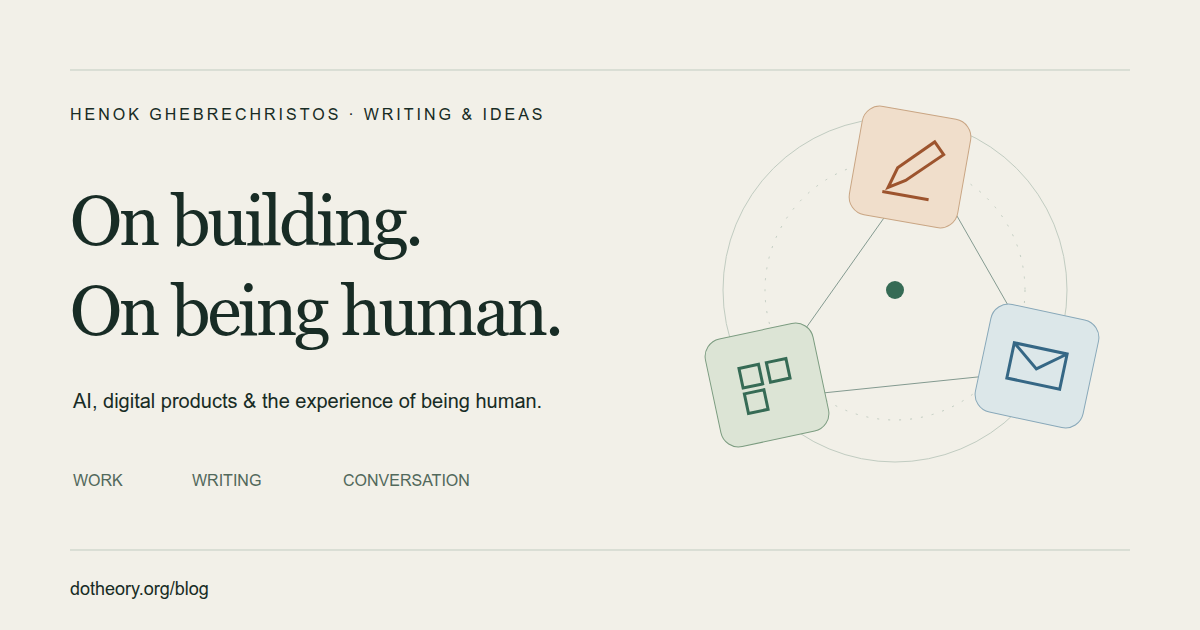
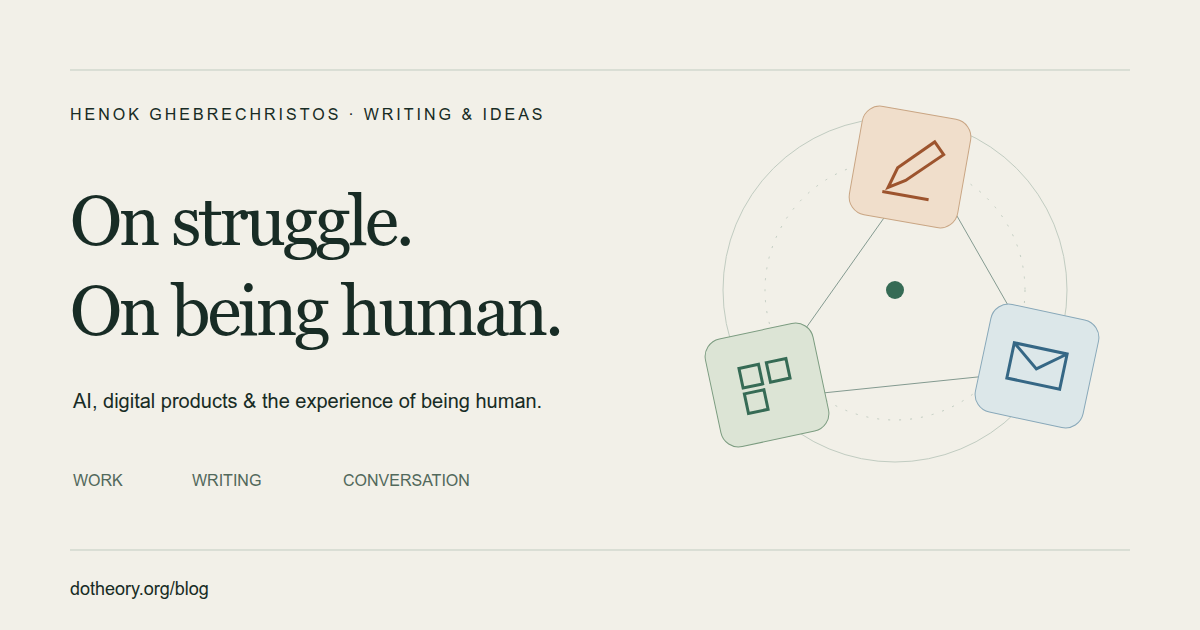
Refine homepage invitation and enable local contact intake
Keep "Challenge any model that leaves your experience out." as the only hero
subtitle, rename the writing heading to "On struggle.", and replace the book
button underline with three dots that progress on hover or keyboard focus.
Update the generated public HTML, writing share image, and copy regressions.

Allow an explicitly configured development preview to submit public inquiries
to the deployed contact inbox and its email notices. Leave private Studio and
authentication on their normal backend, strip credentials at the proxy, and
disable the override in production builds. Document the boundary in ADR-0048.

Serves L1/L2 (clear, finite invitations), L7 (truthful receipts and explicit
configuration), L9 (limited credential/data scope), L10 (a simpler invitation
and focused reading action), and L12 (inquiries reach the intended owner). Violates no law.

Validation: make verify; mobile browser review; exact generated-copy parity;
three-step motion and reduced-motion checks; live/local contact availability
and server rejection of invalid input; one founder-approved live inquiry
returned HTTP 201 and a persisted receipt. Email receipt awaits owner confirmation.

Changed region(s): [[0.1233, 0.3016, 0.37, 0.4222]]

diff --git a/frontend/scripts/contact-preview.test.ts b/frontend/scripts/contact-preview.test.ts
@@ -1,0 +1,55 @@
+import { EventEmitter } from "node:events";
+import { describe, expect, it, vi } from "vitest";
+
+// Config generation is independent of Vite's filesystem environment loader.
+vi.mock("vite", () => ({ loadEnv: vi.fn() }));
+// @ts-expect-error -- plain ESM shared with Vite's configuration.
+import { contactPreviewConfig } from "./contact-preview.mjs";
+
+const target = "https://contact.example";
+
+describe("explicit live contact preview", () => {
+  it("stays off by default and cannot be enabled in production builds", () => {
+    for (const config of [contactPreviewConfig("serve"), contactPreviewConfig("build", target)]) {
+      expect(config.server).toBeUndefined();
+      expect(config.define["import.meta.env.VITE_CONTACT_PREVIEW"]).toBe('"false"');
+    }
+  });
+
+  it("accepts only an HTTPS origin with no credentials or extra destination", () => {
+    for (const invalid of ["http://contact.example", "https://user:password@contact.example", `${target}/private`, `${target}?token=test`, `${target}#private`]) {
+      expect(() => contactPreviewConfig("serve", invalid)).toThrow();
+    }
+  });
+
+  it("routes only public status and submission, never private inbox or auth", () => {
+    const config = contactPreviewConfig("serve", target);
+    const rule = Object.keys(config.server.proxy)[0];
+    const proxy = config.server.proxy[rule];
+    const match = new RegExp(rule);
+    for (const path of ["status", "messages"]) {
+      expect(match.test(`/__dot-contact/v1/contact/${path}`)).toBe(true);
+      expect(proxy.rewrite(`/__dot-contact/v1/contact/${path}`)).toBe(`/v1/contact/${path}`);
+    }
+    for (const path of ["/__dot-contact/v1/contact/inbox", "/__dot-contact/v1/auth/session", "/__dot-contact/v1/contact/messages/../inbox", "/__dot-contact/v1/contact/messages%2finbox"]) {
+      expect(match.test(path)).toBe(false);
+    }
+    expect(proxy.target).toBe(target);
+  });
+
+  it("strips session credentials while preserving the submission reference", () => {
+    const config = contactPreviewConfig("serve", target);
+    const proxy = config.server.proxy[Object.keys(config.server.proxy)[0]];
+    const events = new EventEmitter();
+    proxy.configure(events);
+    const headers = new Map([
+      ["cookie", "local-session=test"], ["authorization", "Bearer local-token"],
+      ["idempotency-key", "test-submission-reference"], ["content-type", "application/json"],
+    ]);
+    events.emit("proxyReq", { removeHeader: (name: string) => headers.delete(name) });
+    expect([...headers.keys()]).toEqual(["idempotency-key", "content-type"]);
+    const response = { headers: { "set-cookie": "unexpected-cookie", "content-type": "application/json" } };
+    events.emit("proxyRes", response);
+    expect(response.headers).toEqual({ "content-type": "application/json" });
+  });
+});

diff --git a/frontend/src/blocks/core/home/home.css b/frontend/src/blocks/core/home/home.css
@@ -395,8 +395,8 @@ html:has(.home-journey) {
   white-space: normal;
 }
 
-/* The primary invitation reads like a chapter opener: the shared paper button,
-   with a line of ink that draws under it when it is chosen. */
+/* The primary invitation uses the shared paper button, with three dots that
+   appear from left to right when the reader hovers or focuses it. */
 .home-hero-entry .dot-focus-nav__primary.dot-button {
   min-height: 3.5rem;
   gap: 0.75rem;
@@ -430,13 +430,8 @@ html:has(.home-journey) {
 }
 
 .home-hero-entry .dot-button__copy strong {
+  position: relative;
   padding-bottom: 0.3rem;
-  background: linear-gradient(
-      90deg,
-      var(--organism-accent-strong),
-      color-mix(in oklab, var(--organism-accent-strong) 35%, transparent)
-    )
-    no-repeat 0 100% / 0 1.5px;
   font-size: 1.125rem;
   letter-spacing: -0.02em;
   line-height: 1.2;
@@ -444,12 +439,25 @@ html:has(.home-journey) {
   text-wrap: balance;
 }
 
+.home-hero-entry .dot-button__copy strong::after {
+  position: absolute;
+  bottom: 0;
+  left: 0;
+  width: 30px;
+  height: 4px;
+  background: radial-gradient(circle, currentColor 1.75px, transparent 2px)
+    0 0 / 10px 4px repeat-x;
+  clip-path: inset(0 100% 0 0);
+  content: "";
+  pointer-events: none;
+}
+
 .home-hero-entry .dot-button__end-icon {
   box-shadow: inset 0 0 0 1px color-mix(in oklab, var(--foreground) 16%, transparent);
 }
 
-.home-hero-entry .dot-focus-nav__primary:focus-visible .dot-button__copy strong {
-  background-size: 100% 1.5px;
+.home-hero-entry .dot-focus-nav__primary:focus-visible .dot-button__copy strong::after {
+  clip-path: inset(0);
 }
 
 .home-hero-entry .dot-focus-nav__primary:not(:disabled):focus-visible .dot-button__end-icon {
@@ -459,8 +467,8 @@ html:has(.home-journey) {
 }
 
 @media (hover: hover) {
-  .home-hero-entry .dot-focus-nav__primary:hover .dot-button__copy strong {
-    background-size: 100% 1.5px;
+  .home-hero-entry .dot-focus-nav__primary:hover .dot-button__copy strong::after {
+    clip-path: inset(0);
   }
 
   .home-hero-entry .dot-focus-nav__primary:not(:disabled):hover .dot-button__end-icon {
@@ -471,8 +479,8 @@ html:has(.home-journey) {
 }
 
 @media (prefers-reduced-motion: no-preference) {
-  html:not([data-motion="still"]) .home-hero-entry .dot-button__copy strong {
-    transition: background-size 560ms cubic-bezier(0.22, 1, 0.36, 1);
+  html:not([data-motion="still"]) .home-hero-entry .dot-button__copy strong::after {
+    transition: clip-path 480ms steps(3, end);
   }
 
   html:not([data-motion="still"]) .home-hero-entry .dot-button__end-icon {

diff --git a/frontend/src/services/OrchestratorContactService.test.ts b/frontend/src/services/OrchestratorContactService.test.ts
@@ -1,0 +1,40 @@
+import { afterEach, describe, expect, it, vi } from "vitest";
+
+const { authedFetch } = vi.hoisted(() => ({ authedFetch: vi.fn() }));
+vi.mock("./orchestratorHttp", () => ({ authedFetch }));
+
+afterEach(() => {
+  vi.unstubAllEnvs();
+  vi.unstubAllGlobals();
+  vi.resetAllMocks();
+  vi.resetModules();
+});
+
+async function setup(preview: boolean, development: boolean) {
+  vi.resetModules();
+  vi.stubEnv("DEV", development);
+  vi.stubEnv("VITE_CONTACT_PREVIEW", String(preview));
+  vi.stubEnv("VITE_ORCHESTRATOR_URL", "https://normal-api.example");
+  const fetch = vi.fn().mockImplementation(() => Promise.resolve(new Response(JSON.stringify({ available: true, status: "received", reference: "inq_test" }))));
+  vi.stubGlobal("fetch", fetch);
+  return { service: await import("./OrchestratorContactService"), fetch };
+}
+
+describe("contact intake destination", () => {
+  it("uses opted-in preview intake without credentials and leaves the private inbox on its normal API", async () => {
+    const { service, fetch } = await setup(true, true);
+    await service.fetchContactStatus();
+    await service.sendContactMessage({ purpose: "general", name: "Visitor", email: "visitor@example.org", message: "An example inquiry.", organization: "", timeline: "", budget: "", consent: true, website: "" }, "test-submission-reference");
+    expect(fetch).toHaveBeenNthCalledWith(1, "/__dot-contact/v1/contact/status", expect.objectContaining({ credentials: "omit" }));
+    expect(fetch).toHaveBeenNthCalledWith(2, "/__dot-contact/v1/contact/messages", expect.objectContaining({ credentials: "omit", method: "POST", headers: expect.objectContaining({ "Idempotency-Key": "test-submission-reference" }) }));
+    authedFetch.mockResolvedValue(new Response(JSON.stringify({ messages: [], has_more: false, page: 1 })));
+    await service.fetchContactInbox(1, "");
+    expect(authedFetch).toHaveBeenCalledWith("https://normal-api.example/v1/contact/inbox?page=1", expect.objectContaining({ sessionOnly: true }));
+  });
+
+  it.each([[false, true], [true, false]])("uses the normal API with preview=%s and development=%s", async (preview, development) => {
+    const { service, fetch } = await setup(preview, development);
+    await service.fetchContactStatus();
+    expect(fetch).toHaveBeenCalledWith("https://normal-api.example/v1/contact/status", expect.objectContaining({ credentials: "omit" }));
+  });
+});

diff --git a/frontend/src/services/OrchestratorContactService.ts b/frontend/src/services/OrchestratorContactService.ts
@@ -23,6 +23,9 @@ export interface ContactReply { id: string; status: string; created_at: string; 
 export interface ContactConversation extends ContactMessage { replies: ContactReply[] }
 
 const base = `${ORCHESTRATOR_URL.replace(/\/$/, "")}/v1/contact`;
+const publicBase = import.meta.env.DEV && import.meta.env.VITE_CONTACT_PREVIEW === "true"
+  ? "/__dot-contact/v1/contact"
+  : base;
 
 async function read<T>(response: Response): Promise<T> {
   if (!response.ok) {
@@ -35,9 +38,9 @@ async function read<T>(response: Response): Promise<T> {
   return response.json() as Promise<T>;
 }
 
-export const fetchContactStatus = (signal?: AbortSignal) => fetch(`${base}/status`, { signal, cache: "no-store" }).then(read<{ available: boolean }>);
-export const sendContactMessage = (draft: ContactDraft, key: string) => fetch(`${base}/messages`, {
-  method: "POST", headers: { "Content-Type": "application/json", "Idempotency-Key": key }, body: JSON.stringify(draft),
+export const fetchContactStatus = (signal?: AbortSignal) => fetch(`${publicBase}/status`, { signal, cache: "no-store", credentials: "omit" }).then(read<{ available: boolean }>);
+export const sendContactMessage = (draft: ContactDraft, key: string) => fetch(`${publicBase}/messages`, {
+  method: "POST", credentials: "omit", headers: { "Content-Type": "application/json", "Idempotency-Key": key }, body: JSON.stringify(draft),
 }).then(read<{ status: "received"; reference: string }>);
 
 export const fetchContactInbox = (page: number, status: string, signal?: AbortSignal) => authedFetch(`${base}/inbox?page=${page}${status ? `&status=${encodeURIComponent(status)}` : ""}`, { sessionOnly: true, signal }).then(read<{ messages: ContactMessage[]; has_more: boolean; page: number }>);

diff --git a/frontend/vite.config.js b/frontend/vite.config.js
@@ -4,6 +4,7 @@ import { fileURLToPath, URL } from "node:url";
 import { visualizer } from "rollup-plugin-visualizer";
 import { defineConfig } from "vite";
 import { essaysPlugin } from "./scripts/essays.mjs";
+import { contactPreviewPlugin } from "./scripts/contact-preview.mjs";
 
 // https://vite.dev/config/
 export default defineConfig({
@@ -20,6 +21,7 @@ export default defineConfig({
     // Publishes src/content/essays as /essays/index.json + /essays/<slug>.md
     // and refuses to build if an essay's front matter is incomplete (ADR-0033).
     essaysPlugin(),
+    contactPreviewPlugin(),
     // A bundle map is useful locally and is also a 1 MB implementation map we
     // have no reason to publish beside the book. Generate it only for the
     // explicit analysis command, never for a normal release.
@@ -106,8 +108,8 @@ export default defineConfig({
     headers: {
       "Service-Worker-Allowed": "/",
     },
-    // No dev proxy: the frontend calls the orchestrator directly at
-    // VITE_ORCHESTRATOR_URL, which is the only backend (ADR-0009).
+    // The frontend calls VITE_ORCHESTRATOR_URL. The optional contact-preview
+    // plugin proxies only public intake to an explicitly configured live API.
   },
   // Ensure manifest.json and service worker are copied
   publicDir: "public",

diff --git a/frontend/src/blocks/core/home/HeroProposition.test.tsx b/frontend/src/blocks/core/home/HeroProposition.test.tsx
@@ -80,13 +80,11 @@ describe("HeroProposition", () => {
     expect(heading.querySelector("em")).toBeNull();
     expect(screen.getByText("Digital Organism Theory")).toBeVisible();
     expect(document.querySelector(".home-hero-opening-copy")).toBeNull();
-    // Emphasize developing coherence while keeping the challenge secondary.
+    // One plain-language invitation before the model introduces its vocabulary.
     expect(document.querySelector(".home-hero-subtitle")).toHaveTextContent(
-      "Feelings are data. Tune your interpretation toward coherence. Challenge models that exclude you or ask you to be someone else.",
+      "Challenge any model that leaves your experience out.",
     );
-    expect(document.querySelector(".home-hero-subtitle strong")).toHaveTextContent(
-      "Tune your interpretation toward coherence.",
-    );
+    expect(document.querySelector(".home-hero-subtitle strong")).toBeNull();
     // The opening is an invitation to examine beliefs, not an attributed quotation.
     expect(screen.queryByRole("link", { name: /preface/i })).not.toBeInTheDocument();
     expect(document.querySelector(".home-hero-masthead blockquote")).toBeNull();

diff --git a/frontend/e2e/writing.spec.ts b/frontend/e2e/writing.spec.ts
@@ -45,7 +45,7 @@ test("old essay archive links resolve to the common blog", async ({ page }) => {
   await page.route("**/essays/index.json", (route) => route.fulfill({ json: { schema: "dot.essays.v1", essays: [] } }));
   await page.goto("/essays");
   await expect(page).toHaveURL(/\/blog$/);
-  await expect(page.getByRole("heading", { name: /On building.*On being human/ })).toBeVisible();
+  await expect(page.getByRole("heading", { name: /On struggle.*On being human/ })).toBeVisible();
   await expect(page.getByText("The archive starts here.")).toBeVisible();
   await expect(page.getByRole("list", { name: "Letters on LinkedIn" }).getByRole("link")).toHaveAttribute("href", /^https:\/\/www\.linkedin\.com\/pulse\//);
   await expect(page.getByRole("navigation", { name: "Blog pages" })).toHaveCount(0);

diff --git a/frontend/scripts/materialize-public-routes.test.ts b/frontend/scripts/materialize-public-routes.test.ts
@@ -337,7 +337,7 @@ describe("page text for readers without JavaScript", () => {
 
   it("gives the home page the author, the book, and a way into every chapter", () => {
     const html = rootDocument(shell, manifest);
-    expect(html).toContain('<p>Digital Organism Theory</p><h1>Trust your experience.</h1><p>Feelings are data. <strong>Tune your interpretation toward coherence.</strong><br>Challenge models that exclude you or ask you to be someone else.</p>');
+    expect(html).toContain('<p>Digital Organism Theory</p><h1>Trust your experience.</h1><p>Challenge any model that leaves your experience out.</p>');
     for (const section of manifest.sections) {
       expect(html).toContain(`href="/book/digital-organism-theory/${section.slug}"`);
     }

diff --git a/frontend/src/vite-env.d.ts b/frontend/src/vite-env.d.ts
@@ -6,6 +6,8 @@ interface ImportMetaEnv {
   readonly VITE_PROFILE_OWNER_ID?: string;
   readonly VITE_OWNER_TOKEN?: string;
   readonly VITE_ORCHESTRATOR_URL?: string;
+  /** Set by the opt-in development proxy; production builds always disable it. */
+  readonly VITE_CONTACT_PREVIEW?: string;
   readonly VITE_ORCHESTRATOR_OWNER_ID?: string;
   readonly VITE_PROFILE_DELIVERY_OWNER_ID?: string;
   readonly VITE_PROFILE_DELIVERY_SLUG?: string;

diff --git a/frontend/src/blocks/core/home/HeroProposition.tsx b/frontend/src/blocks/core/home/HeroProposition.tsx
@@ -49,8 +49,7 @@ export function HeroProposition({
               <span>{HOME.title}</span>
             </h1>
             <p className="home-hero-subtitle">
-              <span>{HOME.subtitle}{" "}<strong>{HOME.interpretation}</strong></span>{" "}
-              <span>{HOME.criticalLine}</span>
+              {HOME.criticalLine}
             </p>
           </div>
 

diff --git a/docs/blueprint/adr/0048-explicit-live-contact-intake-in-local-preview.md b/docs/blueprint/adr/0048-explicit-live-contact-intake-in-local-preview.md
@@ -1,0 +1,44 @@
+# ADR-0048: Explicit live contact intake in the local preview
+
+- **Status:** Accepted
+- **Date:** 2026-10-12
+- **Deciders:** Founder (make the contact form reach his inbox)
+- **Extends:** ADR-0044
+
+## Context
+
+The deployed contact form is available, but the local backend has no contact
+sealing key or mail configuration. The founder encountered an unavailable form
+while reviewing the site locally and asked for submissions to reach his inbox.
+Production does not allow local browser origins through its CORS policy.
+
+## Decision
+
+Allow an explicit `DOT_CONTACT_PREVIEW_TARGET` HTTPS origin in local Vite
+configuration. Only public contact status and message submission are proxied to
+that origin. Local submissions then reach the deployed private inbox and use its
+existing email notices. All Studio, session, and private inbox calls retain their
+normal local backend. Open the deployed Studio to review these live messages.
+
+The proxy strips cookies and authorization headers and does not relay Set-Cookie.
+It cannot forward private inbox paths. Production builds disable the override,
+even when the local setting is present. The default remains an isolated local
+stack; the example configuration states that opting in sends real messages.
+No mail or encryption credentials are copied into the frontend or local backend.
+
+Serves L7 (explicit configuration and truthful receipts), L9 (limited data and
+credential scope), and L12 (messages reach the intended owner). Violates no law.
+
+## Consequences
+
+The founder can review a working form locally against the real intake without
+changing other local services or weakening production CORS. An opted-in preview
+depends on network access. Live submissions are retained in the deployed inbox,
+not the local development database; sending test messages must be deliberate.
+
+## Alternatives considered
+
+- Copy production mail and encryption keys locally: unnecessary credential exposure.
+- Point the entire local application at production: mixes unrelated development work with live data.
+- Expand production CORS for local previews: changes the wider authenticated API boundary.
+- Proxy only explicitly configured public intake: chosen for its narrow scope.
